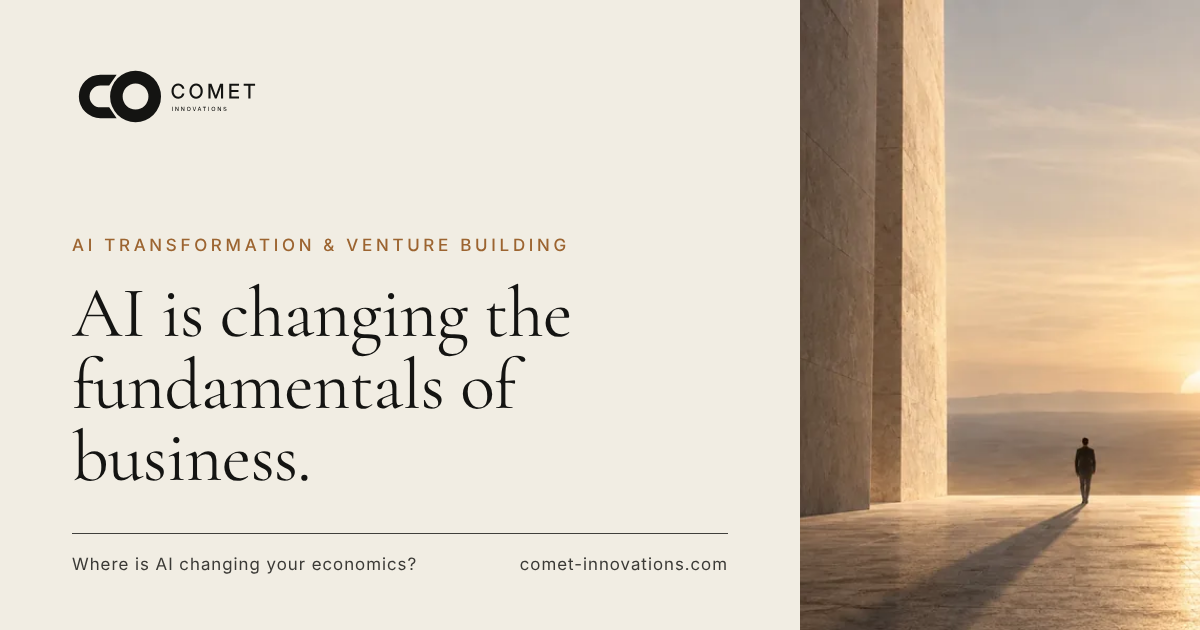
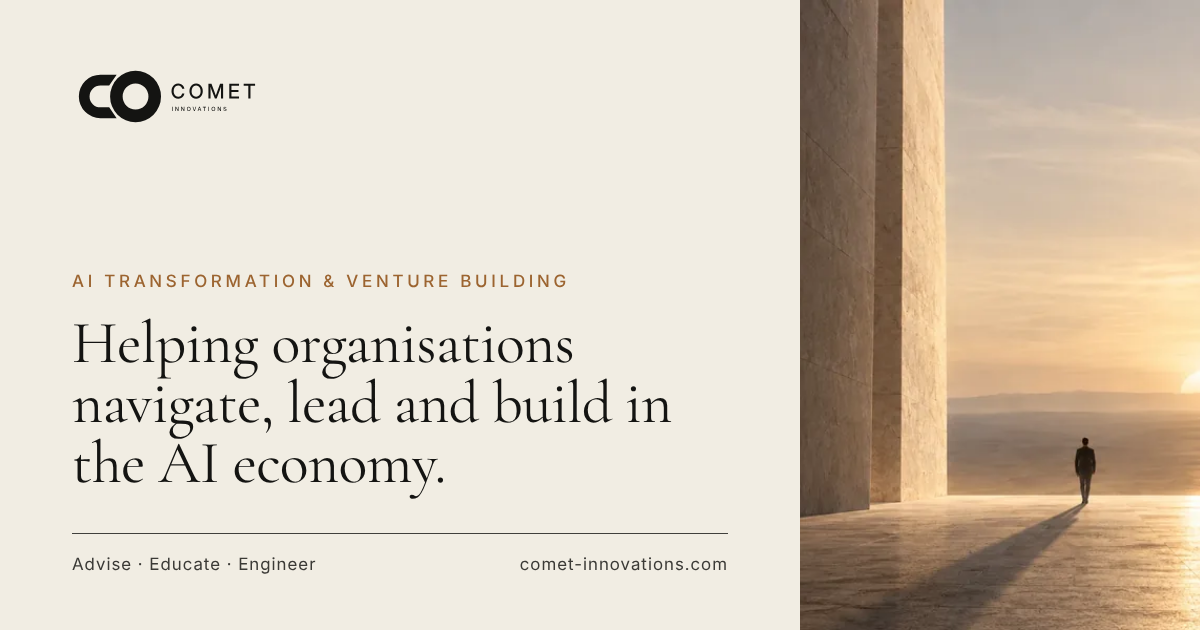
Replace the homepage with the revised October 2026 copy
- New hero, opportunity statement, three independent services (Advise,
  Educate, Engineer), three priority markets (Private Equity, Government,
  Energy), revised Four Fundamentals questions, three principles, and
  shortened Selected work, Applied research and Insights sections.
- Service links point to new #advise, #educate and #engineer anchors on
  What We Do until dedicated service pages exist.
- Update the homepage description, share image and tests.

Claude-Session: https://claude.ai/code/session_01S63pzjcwrUnhiZ14qCX8BA

Changed region(s): [[0.0617, 0.3619, 0.555, 0.7841], [0.0617, 0.8746, 0.3392, 0.9048]]

diff --git a/src/pages/index.html b/src/pages/index.html
@@ -1,19 +1,13 @@
-<!--meta {"title": "AI Transformation & Venture Building | Comet Innovations", "description": "Comet Innovations helps leadership teams identify where AI changes business economics, redesign work and operating models, and build new sources of growth.", "heading": "Home", "intent": {"primary": "AI transformation consulting", "secondary": ["AI transformation firm", "AI venture building", "enterprise AI transformation"]}, "ogImage": "/images/og/home.png", "ogDescription": "Comet Innovations is an AI Transformation & Venture Building firm that helps leadership teams understand where AI changes the economics of value, work, organisation and growth.", "updated": "2026-10-16"} -->
+<!--meta {"title": "AI Transformation & Venture Building | Comet Innovations", "description": "London-based AI transformation and venture building firm offering independent advisory, executive education and forward-deployed AI engineering.", "heading": "Home", "intent": {"primary": "AI transformation consulting", "secondary": ["AI transformation firm", "AI venture building", "AI executive education", "forward-deployed AI engineering"]}, "ogImage": "/images/og/home.png", "ogDescription": "Comet Innovations helps organisations navigate, lead and build in the AI economy through independent advisory, executive education and forward-deployed AI engineering.", "updated": "2026-10-25"} -->
 <header class="hero">
 <div class="shell hero-grid">
   <div class="hero-copy">
-    <p class="eyebrow hero-reveal">An {{site.category}} firm</p>
-    <h1 class="hero-reveal">AI is changing the fundamentals of business.</h1>
-    <ul class="hero-structure hero-reveal">
-      <li>How you make money.</li>
-      <li>How people work.</li>
-      <li>How the organisation runs.</li>
-      <li>How you grow.</li>
-    </ul>
-    <p class="hero-body hero-reveal">Comet Innovations works with leadership teams to understand where AI materially changes these fundamentals, then helps turn that understanding into action.</p>
-    <p class="signature-question hero-reveal">{{site.question}}</p>
+    <h1 class="hero-reveal">Helping organisations navigate, lead and build in the AI economy.</h1>
+    <p class="hero-tagline hero-reveal"><span>Independent advisory.</span> <span>Executive education.</span> <span>Forward-deployed AI engineering.</span></p>
+    <p class="hero-body hero-reveal">Comet Innovations is a London-based AI transformation and venture building firm working with investors, governments and energy businesses.</p>
+    <p class="hero-body hero-reveal">We help organisations understand how artificial intelligence is reshaping their economics, make consequential strategic decisions, develop leadership capability and build the systems that turn opportunity into reality.</p>
     <div class="hero-actions hero-reveal">
-      <a class="arrow-link" href="what-we-do.html"><span class="arrow" aria-hidden="true"><svg viewBox="0 0 24 24" fill="none" stroke="currentColor" stroke-width="1.5"><path d="M4 12h16M14 6l6 6-6 6"/></svg></span>Explore What We Do</a>
+      <a class="arrow-link" href="what-we-do.html"><span class="arrow" aria-hidden="true"><svg viewBox="0 0 24 24" fill="none" stroke="currentColor" stroke-width="1.5"><path d="M4 12h16M14 6l6 6-6 6"/></svg></span>Explore Our Services</a>
       <a class="btn" href="contact.html">Start a Conversation</a>
     </div>
   </div>
@@ -29,59 +23,92 @@
 </div>
 </header>
 
-<section class="section"><div class="shell intro-grid">
-<div><p class="eyebrow">Authority</p></div>
+<section class="section"><div class="shell split">
+<div><h2 class="section-title">The opportunity is bigger than technology.</h2></div>
 <div class="copy">
-<p class="lead">Business first. AI where it matters.</p>
-<p>We work at the intersection of strategy, operating change, venture building and artificial intelligence.</p>
-<p>Our perspective draws on more than 20 years of senior experience across strategy, technology, transformation, business building and operating leadership.</p>
-<p>From strategic decisions through design, capability building and engineering, we stay close to what needs to change.</p>
+<p class="lead">Artificial intelligence is changing more than the tools organisations use. It is changing what can be delivered economically, how work is performed, how decisions are made and which new businesses become possible.</p>
+<p>For leadership teams, the challenge is no longer simply whether to adopt AI.</p>
+<p>It is understanding what AI changes, what deserves investment and how to respond.</p>
+<p>We bring together business leadership, strategic thinking and applied AI expertise to help organisations address these questions with clarity.</p>
 </div>
-</div>
-<div class="shell authority">
-<div class="reveal">Senior led</div><div class="reveal">Strategy through engineering</div><div class="reveal">UK · Middle East · Africa experience</div><div class="reveal">Applied AI research · Patent pending</div>
-</div>
-<div class="shell people-teaser">
-<p>The people shaping the engagement stay involved in the work.</p>
-<a class="link" href="about.html#people">Meet the people behind Comet</a>
 </div></section>
 
-<section class="section section-ruled"><div class="shell">
-<p class="eyebrow">The Four Fundamentals</p>
-<h2 class="section-title xl">Where is AI changing your economics?</h2>
-<p class="section-intro">Most organisations begin by asking where they can use AI. We start somewhere else. Where does AI change the economics of the business enough to demand a different answer?</p>
-<div class="fund-grid">
-<div class="fund-row reveal"><svg class="glyph" aria-hidden="true"><use href="images/icons.svg#shen"/></svg><div><p class="eyebrow">01 · Value</p><h3>How do you make money?</h3></div><p>AI is changing what customers value, what they will pay for, what can be delivered economically and where margins come from.</p><a class="link" href="value-creation.html">Explore value creation</a></div>
-<div class="fund-row reveal"><svg class="glyph" aria-hidden="true"><use href="images/icons.svg#akhet"/></svg><div><p class="eyebrow">02 · Work</p><h3>How do people work?</h3></div><p>We help organisations determine what people should do, what machines should do and where AI can take responsibility for entire workflows.</p><a class="link" href="work-redesign.html">Explore work redesign</a></div>
-<div class="fund-row reveal"><svg class="glyph" aria-hidden="true"><use href="images/icons.svg#columns"/></svg><div><p class="eyebrow">03 · Organisation</p><h3>How does the organisation run?</h3></div><p>We help leadership teams rethink the structures, governance and operating model required to use AI at scale.</p><a class="link" href="operating-model.html">Explore operating model</a></div>
-<div class="fund-row reveal"><svg class="glyph" aria-hidden="true"><use href="images/icons.svg#switch"/></svg><div><p class="eyebrow">04 · Growth</p><h3>How do you grow?</h3></div><p>AI is changing the cost and speed of creating new products, services and companies. We help organisations find, test and build what comes next.</p><a class="link" href="venture-building.html">Explore venture building</a></div>
+<section class="section dark" aria-labelledby="services-title"><div class="shell">
+<h2 class="section-title" id="services-title">Three ways to work with Comet.</h2>
+<p class="section-intro">Different challenges require different forms of expertise. Our three services are independently available and can be combined where the work demands it.</p>
+<div class="cards3 cards-text services">
+<article class="card reveal"><h3>Advise</h3><p class="card-lead">Independent judgment for consequential decisions.</p><p>We advise boards, investors and executive teams on the strategic and economic implications of AI.</p><p>From business model innovation and enterprise AI strategy to operating model transformation and new venture development, we help leaders understand their options, make informed choices and define the path forward.</p><p class="card-action"><a class="link" href="/what-we-do#advise">Explore Advisory</a></p></article>
+<article class="card reveal"><h3>Educate</h3><p class="card-lead">Develop the leaders the AI economy demands.</p><p>We design and deliver executive education experiences that help boards, executive committees and leadership teams understand AI, challenge established assumptions and strengthen strategic decision-making.</p><p>Our programmes connect emerging technology with the realities of leadership, business performance and organisational change.</p><p class="card-action"><a class="link" href="/what-we-do#educate">Explore Executive Education</a></p></article>
+<article class="card reveal"><h3>Engineer</h3><p class="card-lead">Engineering that works inside the business.</p><p>Our forward-deployed engineering approach places AI engineering expertise close to the business problem.</p><p>We work alongside client teams to design, develop, integrate and operationalise AI systems, from intelligent workflows and enterprise agents to AI-enabled products and new digital businesses.</p><p class="card-action"><a class="link" href="/what-we-do#engineer">Explore Engineering</a></p></article>
 </div>
-<p class="after-list after-list-split"><a class="nav-cta" href="diagnostic.html">Explore the Fundamentals Diagnostic</a><a class="link" href="/insights/the-four-fundamentals">The Four Fundamentals, in depth</a></p>
+</div></section>
+
+<section class="section" aria-labelledby="markets-title"><div class="shell">
+<h2 class="section-title" id="markets-title">Where we focus.</h2>
+<p class="section-intro">We concentrate on environments where strategic decisions, operational complexity and technological change have significant economic consequences.</p>
+<div class="cards3 cards-text markets">
+<article class="card reveal"><h3>Private Equity</h3><p class="card-lead">AI-enabled portfolio value creation.</p><p>Helping investors and portfolio leadership teams identify opportunities for performance improvement, business model innovation, operating transformation and new growth.</p></article>
+<article class="card reveal"><h3>Government</h3><p class="card-lead">Building more capable public institutions.</p><p>Supporting public-sector leaders in developing AI strategy, strengthening institutional capabilities and modernising the delivery of public services.</p></article>
+<article class="card reveal"><h3>Energy</h3><p class="card-lead">Intelligence for a changing energy system.</p><p>Working with energy businesses, utilities and infrastructure operators to improve decisions, transform operations and explore new opportunities enabled by artificial intelligence.</p></article>
+</div>
+</div></section>
+
+<section class="section section-ruled" aria-labelledby="fundamentals-title"><div class="shell">
+<h2 class="eyebrow" id="fundamentals-title">The Four Fundamentals</h2>
+<h3 class="section-title xl">AI is changing the fundamentals of business.</h3>
+<div class="section-intro">
+<p>Most organisations begin by asking where they can use AI.</p>
+<p>We begin with a more consequential question: where does AI change the economics of the organisation enough to require a different strategic response?</p>
+<p>Our Four Fundamentals framework examines four dimensions.</p>
+</div>
+<div class="fund-grid">
+<div class="fund-row reveal"><svg class="glyph" aria-hidden="true"><use href="images/icons.svg#shen"/></svg><div><p class="eyebrow">01 · Value</p><h4>How do you create and capture value?</h4></div><p>Changing customer expectations, business models, pricing, revenue and margins.</p></div>
+<div class="fund-row reveal"><svg class="glyph" aria-hidden="true"><use href="images/icons.svg#akhet"/></svg><div><p class="eyebrow">02 · Work</p><h4>How should work be performed?</h4></div><p>Redesigning workflows, roles and the relationship between human expertise and intelligent systems.</p></div>
+<div class="fund-row reveal"><svg class="glyph" aria-hidden="true"><use href="images/icons.svg#columns"/></svg><div><p class="eyebrow">03 · Organisation</p><h4>How should the organisation operate?</h4></div><p>Rethinking structures, decision rights, governance, capabilities and the operating model.</p></div>
+<div class="fund-row reveal"><svg class="glyph" aria-hidden="true"><use href="images/icons.svg#switch"/></svg><div><p class="eyebrow">04 · Growth</p><h4>What becomes possible next?</h4></div><p>Identifying new markets, products, services and businesses made viable by AI.</p></div>
+</div>
+<p class="section-intro after-list">The framework provides a disciplined way to examine AI-driven change, distinguish material opportunities from technological distraction and inform strategic choices.</p>
+<p class="after-list"><a class="nav-cta" href="/insights/the-four-fundamentals">Discover the Four Fundamentals</a></p>
 {{> framework-notice}}
 </div></section>
 
-<section class="section dark"><div class="shell">
-<p class="eyebrow">Selected work</p><h2 class="section-title">Strategy only matters when something changes.</h2>
-<div class="cards3">
-<article class="card reveal"><div class="card-art"><img src="images/art-arch.svg" alt="" width="640" height="400" loading="lazy"></div><p class="meta">Business model redesign · Commercial strategy · Operating change</p><h3>Rebuilding the economics of a service business</h3><p>A new operating model and proposition designed around a fundamentally different cost base.</p></article>
-<article class="card reveal"><div class="card-art"><img src="images/art-columns.svg" alt="" width="640" height="400" loading="lazy"></div><p class="meta">Venture strategy · Validation · Build</p><h3>Creating a new business inside an established organisation</h3><p>From strategic opportunity to tested proposition and commercial launch.</p></article>
-<article class="card reveal"><div class="card-art"><img src="images/art-stone.svg" alt="" width="640" height="400" loading="lazy"></div><p class="meta">AI strategy · Operating model · Governance</p><h3>Moving AI from pilots to operating capability</h3><p>Turning fragmented experimentation into clear priorities, ownership and execution.</p></article>
-</div><p class="after-list"><a class="btn" href="our-work.html">Explore our work</a></p>
+<section class="section" aria-labelledby="principles-title"><div class="shell split">
+<div><h2 class="section-title" id="principles-title">From understanding to action.</h2></div>
+<div class="copy">
+<p class="lead">We believe that effective AI transformation requires more than enthusiasm for new technology.</p>
+<p>It requires sound economic reasoning, informed leadership, practical engineering and a willingness to challenge how things have always been done.</p>
+<p>Our approach is grounded in three principles.</p>
+<div class="principles">
+<div class="reveal"><h3>Business before technology.</h3><p>The relevance of AI is determined by the business problem, not the sophistication of the model.</p></div>
+<div class="reveal"><h3>Independence of judgment.</h3><p>We evaluate opportunities, technologies and solutions against client objectives rather than promote a predetermined platform.</p></div>
+<div class="reveal"><h3>Close to operating reality.</h3><p>Our perspective combines strategic advisory, business operating experience and applied engineering. We understand that recommendations must withstand commercial, organisational and technical constraints.</p></div>
+</div>
+</div>
 </div></section>
 
-<section class="section"><div class="shell"><p class="eyebrow">Insights</p><h2 class="section-title">Questions worth answering.</h2>
+<section class="section dark" aria-labelledby="work-title"><div class="shell split">
+<div><h2 class="eyebrow" id="work-title">Selected work</h2><h3 class="section-title">Thinking matters. What changes matters more.</h3></div>
+<div class="copy">
+<p>Our experience spans business transformation, commercial innovation, operating models, AI-enabled products and new venture development.</p>
+<p>We work on questions that require a combination of strategic perspective and practical understanding.</p>
+<p class="after-list"><a class="btn" href="our-work.html">Explore Selected Work</a></p>
+</div>
+</div></section>
+
+<section class="rnd" aria-labelledby="research-title"><div class="rnd-copy"><h2 class="eyebrow" id="research-title">Applied research</h2><h3>Beyond intelligent responses.</h3><p>Enterprise AI must increasingly manage work that unfolds over time, across systems and through changing conditions.</p><p>Our applied research explores <a href="/research-and-development#stateful-ai-orchestration">stateful AI orchestration</a>, persistent system context, task coordination and validation-gated execution.</p><p>This work informs our understanding of agentic systems and AI-native operating models, including patent-pending intellectual property.</p><a class="nav-cta" href="research-and-development.html">Explore Research &amp; Development</a></div><div class="rnd-visual" aria-hidden="true"><div class="rnd-grid"></div><div class="rnd-circle"></div><div class="rnd-line"></div></div></section>
+
+<section class="section" aria-labelledby="insights-title"><div class="shell"><h2 class="eyebrow" id="insights-title">Insights</h2><h3 class="section-title">Ideas for decisions that matter.</h3>
+<p class="section-intro">Perspectives on AI economics, strategy, leadership, operating transformation and venture creation.</p>
 <div class="insight-list">
 {{#insights}}<article class="insight reveal">
 <p class="eyebrow">{{category}}</p>
-<h3><a href="{{url}}">{{title}}</a></h3>
+<h4><a href="{{url}}">{{title}}</a></h4>
 <p>{{standfirst}}</p>
 <p class="insight-meta">{{author.name}} · {{readingTime}} minute read</p>
 <span class="link" aria-hidden="true">Read</span>
 </article>{{/insights}}
 </div>
-<p class="after-list"><a class="btn btn-dark" href="insights.html">All insights</a></p>
+<p class="after-list"><a class="btn btn-dark" href="insights.html">Explore Insights</a></p>
 </div></section>
 
-<section class="rnd"><div class="rnd-copy"><p class="eyebrow">Research &amp; Development</p><h2>Building the foundations of AI-native organisations.</h2><p>Our applied research examines the architectures required for AI to operate reliably in environments where work persists, context accumulates and actions require validation, including patent-pending work in <a href="/research-and-development#stateful-ai-orchestration">stateful AI orchestration</a>.</p><a class="nav-cta" href="research-and-development.html">Explore our R&amp;D</a></div><div class="rnd-visual" aria-hidden="true"><div class="rnd-grid"></div><div class="rnd-circle"></div><div class="rnd-line"></div></div></section>
-
-<section class="close"><div class="shell"><p class="eyebrow">Where to start</p><h2>What is AI changing for your business?</h2><p>You may already have pilots. You may be deciding where to begin. Or you may be confronting a more fundamental question about what your organisation should become. Start there.</p><div class="hero-actions"><a class="nav-cta" href="contact.html?topic=diagnostic">Request a Diagnostic</a><a class="nav-cta" href="contact.html">Start a Conversation</a></div></div></section>
+<section class="close"><div class="shell"><h2>The next decision starts here.</h2><p>Whether you need independent strategic advice, an executive learning programme or an engineering team to build a specific solution, we begin with a clear understanding of the problem.</p><div class="hero-actions"><a class="nav-cta" href="contact.html">Start a Conversation</a></div></div></section>

diff --git a/public/styles.css b/public/styles.css
@@ -162,7 +162,7 @@ main:focus{outline:none}
 .fund-row{display:grid;grid-template-columns:56px minmax(0,.95fr) minmax(0,1.05fr) auto;gap:clamp(20px,3vw,48px);padding:44px 0;border-bottom:1px solid var(--line);align-items:start;position:relative}
 .fund-row:after{content:"";position:absolute;left:0;bottom:-1px;height:1px;width:0;background:var(--ember);transition:width .8s var(--ease)}
 .fund-row:hover:after{width:100%}
-.fund-row h3{font-family:var(--serif);font-size:clamp(30px,2.8vw,42px);font-weight:400;line-height:1.05;margin:10px 0 0}
+.fund-row h3,.fund-row h4{font-family:var(--serif);font-size:clamp(30px,2.8vw,42px);font-weight:400;line-height:1.05;margin:10px 0 0}
 .fund-row p{margin:4px 0 0;color:var(--graphite);max-width:520px}
 
 /* Cards */
@@ -182,12 +182,23 @@ main:focus{outline:none}
 .card-art+.meta+h3{margin-top:16px}
 .cards-text .card{min-height:0}
 .cards-text .card h3{margin:0 0 16px}
+.card-lead{font-family:var(--serif);font-size:clamp(21px,1.7vw,24px);line-height:1.25;color:var(--carbon)!important;margin:0 0 18px!important}
+.dark .card-lead{color:var(--chalk)!important}
+.card p+p:not(.card-action){margin-top:14px}
+.card-action{margin-top:auto!important;padding-top:28px}
+.hero-tagline{font-size:13px;letter-spacing:.16em;text-transform:uppercase;line-height:1.7;color:var(--carbon);margin:0 0 28px;padding:16px 0;border-top:1px solid var(--line-strong);border-bottom:1px solid var(--line);max-width:580px}
+.hero-body+.hero-body{margin-top:16px}
+div.section-intro p{margin:0 0 14px}
+.principles{margin-top:36px;border-top:1px solid var(--line-strong)}
+.principles>div{padding:26px 0;border-bottom:1px solid var(--line)}
+.principles h3{font-family:var(--serif);font-weight:400;font-size:clamp(26px,2.2vw,32px);line-height:1.1;margin:0 0 10px}
+.principles p{margin:0}
 
 /* Insight cards (home) */
 .insight-list{display:grid;grid-template-columns:repeat(3,1fr);gap:clamp(24px,3vw,44px)}
 .insight{position:relative;border-top:1px solid var(--carbon);padding-top:24px;display:flex;flex-direction:column}
-.insight h3{font-family:var(--serif);font-size:clamp(28px,2.3vw,34px);font-weight:400;line-height:1.08;margin:14px 0 14px}
-.insight h3 a:after{content:"";position:absolute;inset:0}
+.insight h3,.insight h4{font-family:var(--serif);font-size:clamp(28px,2.3vw,34px);font-weight:400;line-height:1.08;margin:14px 0 14px}
+.insight h3 a:after,.insight h4 a:after{content:"";position:absolute;inset:0}
 .insight p{color:var(--graphite);margin:0 0 18px}
 .insight .insight-meta{font-size:13px;color:var(--stone);flex:1}
 .insight .link{align-self:flex-start}
@@ -350,7 +361,7 @@ main:focus{outline:none}
 /* ---------- Research band ---------- */
 .rnd{display:grid;grid-template-columns:1fr 1fr;min-height:600px;border-top:1px solid var(--line)}
 .rnd-copy{background:var(--chalk);padding:clamp(72px,8vw,120px) clamp(32px,7vw,110px);display:flex;flex-direction:column;justify-content:center}
-.rnd-copy h2{font-family:var(--serif);font-size:clamp(40px,4vw,60px);font-weight:400;line-height:1.02;margin:16px 0 26px}
+.rnd-copy h2:not(.eyebrow),.rnd-copy h3{font-family:var(--serif);font-size:clamp(40px,4vw,60px);font-weight:400;line-height:1.02;margin:16px 0 26px}
 .rnd-copy p{color:var(--graphite);max-width:560px}
 .rnd-copy .nav-cta{align-self:flex-start;margin-top:14px}
 .rnd-copy .nav-cta:hover{background:var(--carbon);color:var(--chalk)}
@@ -488,8 +499,10 @@ dfn{font-style:normal;font-weight:600}
 .related-list-note{font-size:14px;color:var(--graphite)}
 .related-list a:hover .related-list-title{text-decoration:underline;text-underline-offset:4px;text-decoration-thickness:1px}
 .after-list-split{display:flex;flex-wrap:wrap;align-items:center;gap:20px 32px}
-.step a,.copy a:not(.link):not(.nav-cta){text-decoration:underline;text-underline-offset:3px}
+.step a,.copy a:not(.link):not(.nav-cta):not(.btn){text-decoration:underline;text-underline-offset:3px}
 .dark .copy a{color:var(--chalk)}
+.dark .copy p{color:var(--on-dark)}
+.hero-tagline span{display:inline-block;margin-right:.6em}
 
 /* Case studies */
 .case-studies{border-top:1px solid var(--line-strong)}

diff --git a/test/site.test.js b/test/site.test.js
@@ -57,20 +57,30 @@ test('no placeholders, draft markers or unrendered template tags are published',
 
 // ---------- Content and positioning ----------
 
-test('the home page loads straight into the institutional hero with no film', () => {
+test('the home page uses the revised copy: three services, three markets, one framework', () => {
   const home = html('index.html');
   assert.doesNotMatch(home, /film|intro-film|Skip<\/button>/i);
   for (const line of [
-    'An AI Transformation &amp; Venture Building firm',
+    'Helping organisations navigate, lead and build in the AI economy.',
+    'Comet Innovations is a London-based AI transformation and venture building firm working with investors, governments and energy businesses.',
+    'Explore Our Services', 'Start a Conversation',
+    'The opportunity is bigger than technology.',
+    'Three ways to work with Comet.',
+    'Independent judgment for consequential decisions.', 'Develop the leaders the AI economy demands.', 'Engineering that works inside the business.',
+    'Where we focus.', 'Private Equity', 'Government', 'Energy',
     'AI is changing the fundamentals of business.',
-    'How you make money.', 'How people work.', 'How the organisation runs.', 'How you grow.',
-    'Comet Innovations works with leadership teams to understand where AI materially changes these fundamentals, then helps turn that understanding into action.',
-    'Where is AI changing your economics?',
-    'Explore What We Do', 'Start a Conversation',
-    'UK · Middle East · Africa experience',
-    'The people shaping the engagement stay involved in the work.',
+    'How do you create and capture value?', 'How should work be performed?', 'How should the organisation operate?', 'What becomes possible next?',
+    'From understanding to action.', 'Business before technology.', 'Independence of judgment.', 'Close to operating reality.',
+    'Thinking matters. What changes matters more.',
+    'Beyond intelligent responses.',
+    'Ideas for decisions that matter.',
+    'The next decision starts here.',
   ]) assert.ok(home.includes(line), line);
-  assert.match(home, /href="\/about#people"[^>]*>Meet the people behind Comet/);
+  for (const anchor of ['advise', 'educate', 'engineer']) {
+    assert.match(home, new RegExp(`href="/what-we-do#${anchor}"`));
+    assert.match(html('what-we-do.html'), new RegExp(`id="${anchor}"`));
+  }
+  assert.ok(text('index.html').includes('Independent advisory. Executive education. Forward-deployed AI engineering.'));
   assert.doesNotMatch(home, /<details>/, 'FAQ is not duplicated on the home page');
 });
 
@@ -203,7 +213,7 @@ test('every indexable page has a unique title and description and a self-referen
 
 test('the specified titles and descriptions are used', () => {
   const expect = {
-    '/': ['AI Transformation & Venture Building | Comet Innovations', 'Comet Innovations helps leadership teams identify where AI changes business economics, redesign work and operating models, and build new sources of growth.'],
+    '/': ['AI Transformation & Venture Building | Comet Innovations', 'London-based AI transformation and venture building firm offering independent advisory, executive education and forward-deployed AI engineering.'],
     '/what-we-do': ['AI Transformation Strategy & Services | Comet Innovations'],
     '/value-creation': ['AI Growth Strategy & Value Creation | Comet Innovations'],
     '/work-redesign': ['AI Work Redesign & Workforce Transformation | Comet Innovations'],

diff --git a/src/pages/what-we-do.html b/src/pages/what-we-do.html
@@ -16,9 +16,9 @@
 <div class="fund-row reveal"><svg class="glyph" aria-hidden="true"><use href="images/icons.svg#switch"/></svg><div><p class="eyebrow">Growth</p><h3>How do you grow?</h3></div><p>Markets. Products. Services. Ventures.</p><a class="link" href="venture-building.html">Explore venture building</a></div>
 </div><div class="shell">{{> framework-notice}}</div></section>
 <section class="section dark"><div class="shell"><h2 class="eyebrow">How we work</h2><div class="cards3">
-<article class="card reveal"><p class="meta">Advise</p><h3>Senior led strategy, design and decision support.</h3><p>Understand the question, make the choices and define what needs to happen next.</p></article>
-<article class="card reveal"><p class="meta">Educate</p><h3>Build the capability to keep moving.</h3><p>Practical understanding and institutional capability for boards, executives and teams.</p></article>
-<article class="card reveal"><p class="meta">Engineer</p><h3>Turn decisions into working systems.</h3><p>Prototype, integrate and deploy AI solutions alongside client teams and specialist delivery partners.</p></article>
+<article class="card reveal" id="advise"><p class="meta">Advise</p><h3>Senior led strategy, design and decision support.</h3><p>Understand the question, make the choices and define what needs to happen next.</p></article>
+<article class="card reveal" id="educate"><p class="meta">Educate</p><h3>Build the capability to keep moving.</h3><p>Practical understanding and institutional capability for boards, executives and teams.</p></article>
+<article class="card reveal" id="engineer"><p class="meta">Engineer</p><h3>Turn decisions into working systems.</h3><p>Prototype, integrate and deploy AI solutions alongside client teams and specialist delivery partners.</p></article>
 </div></div></section>
 <section class="section section-ruled" aria-labelledby="related-title"><div class="shell split"><div><h2 class="eyebrow" id="related-title">Continue exploring</h2></div><ul class="related-list"><li><a href="/insights/the-four-fundamentals"><span class="eyebrow">Insight</span><span class="related-list-title">The Four Fundamentals</span><span class="related-list-note">The framework in depth.</span></a></li><li><a href="/insights/where-is-ai-changing-your-economics"><span class="eyebrow">Insight</span><span class="related-list-title">Where Is AI Changing Your Economics?</span></a></li><li><a href="/our-work"><span class="eyebrow">Selected work</span><span class="related-list-title">Strategy only matters when something changes</span></a></li></ul></div></section>
 <section class="close"><div class="shell"><p class="eyebrow">Where to start</p><h2>Start with the business, not the technology.</h2><p>The Fundamentals Diagnostic provides a structured view of where AI materially changes your business and where action is most valuable.</p><a class="nav-cta" href="diagnostic.html">Explore the Diagnostic</a></div></section>
